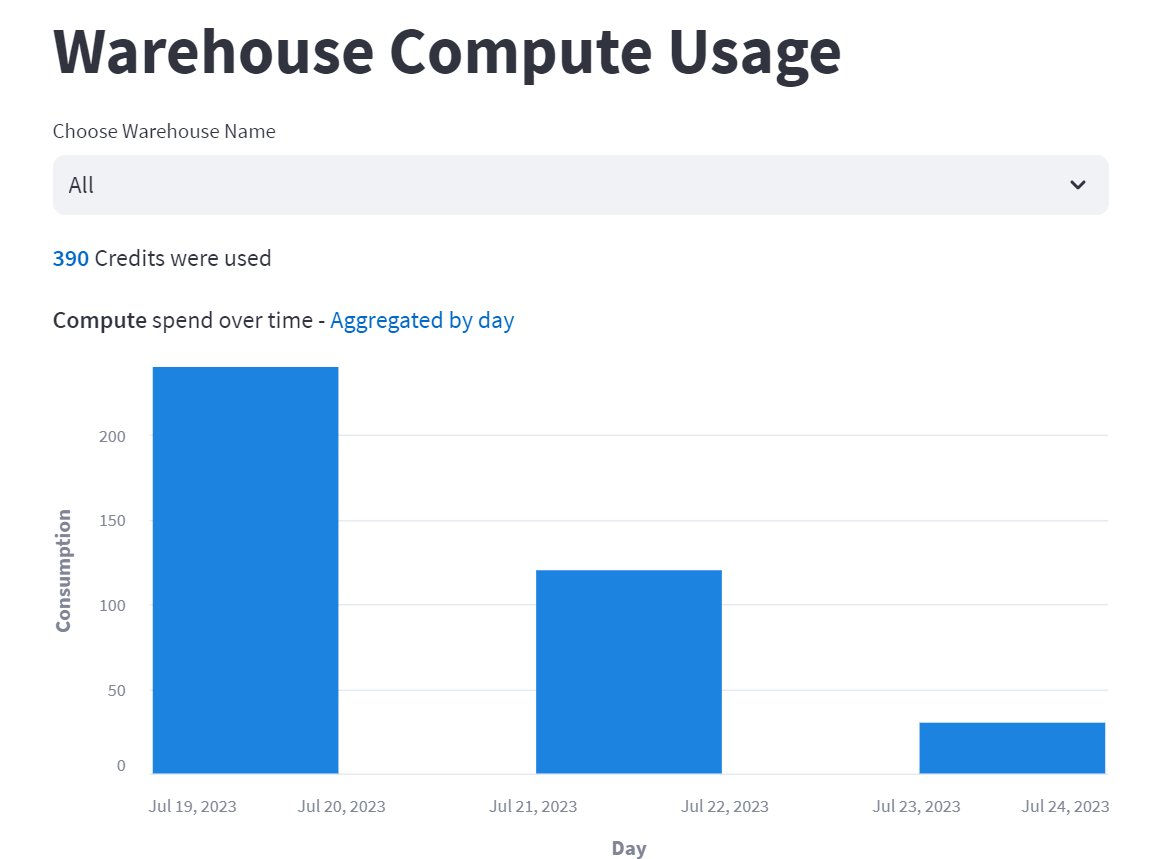
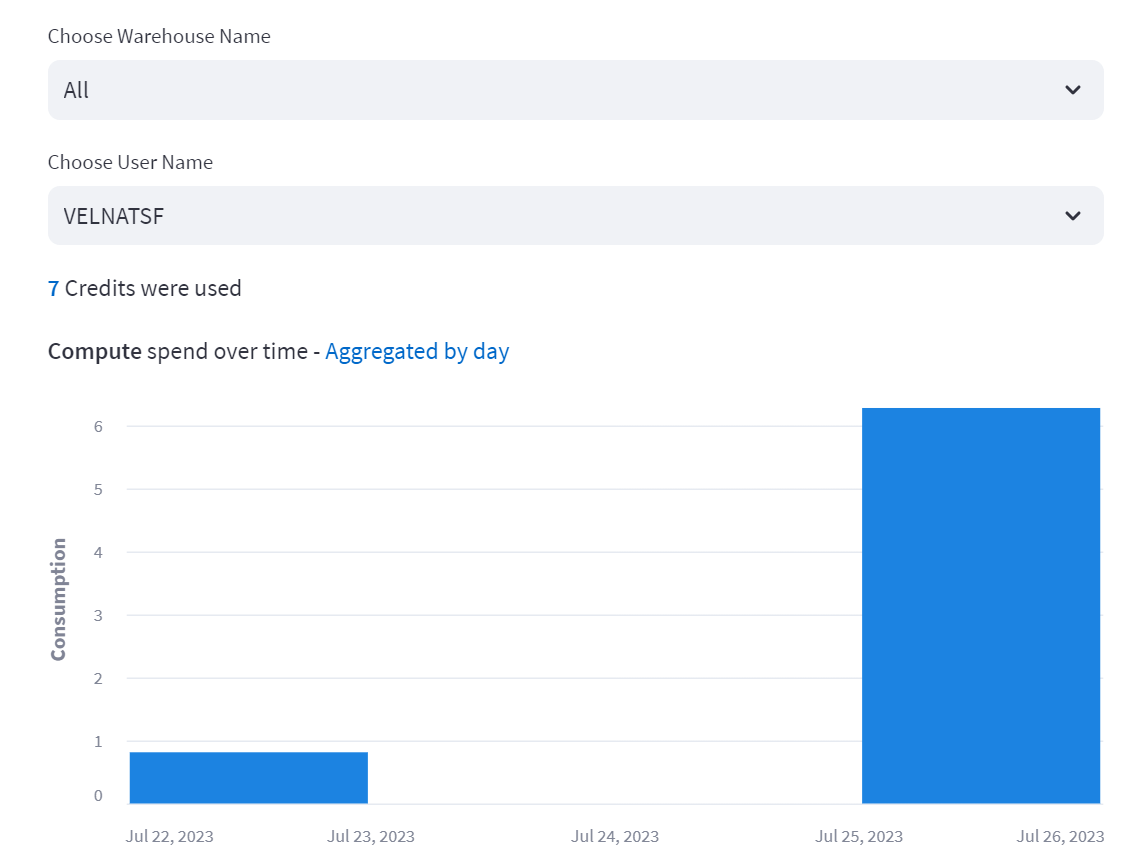
Snowflake user warehouse management

diff --git a/sfutils/WarehouseUsageMST.py b/sfutils/WarehouseUsageMST.py
@@ -18,11 +18,10 @@ class wh_usage:
         with st.sidebar:
             date_from, date_to = sproc.date_selector()
 
-        # Get warehouse data by user
-        df = snowflake_run.get_data(syssql.WH001_QUERY_COUNT.format(date_from=date_from, date_to=date_to))
-        df_q=df
+        # Get data
+        df = snowflake_run.get_data(syssql.CM001_WH_CREDIT_CONSUMPTION.format(date_from=date_from, date_to=date_to))
 
-        # Add filtering widget per Warehouse Name
+        # Add filtering widget per Service type
         all_values = df["WAREHOUSE_NAME"].unique().tolist()
         selected_value = st.selectbox(
             "Choose Warehouse Name",
@@ -37,22 +36,6 @@ class wh_usage:
 
         # Filter df accordingly
         df = df[df["WAREHOUSE_NAME"].isin(selected_value)]
-
-        # Add filtering widget per User Name
-        all_usr_values = df["USER_NAME"].unique().tolist()
-        selected_usr_value = st.selectbox(
-            "Choose User Name",
-            ["All"] + all_usr_values,
-            0,
-        )
-
-        if selected_usr_value == "All":
-            selected_usr_value = all_usr_values
-        else:
-            selected_usr_value = [selected_usr_value]
-
-        # Filter df accordingly
-        df = df[df["USER_NAME"].isin(selected_usr_value)]
 
         # Get consumption
         consumption = int(df["CREDITS_USED"].sum())
@@ -83,8 +66,10 @@ class wh_usage:
         #---------------------------------------------
         # Top queries
         #---------------------------------------------    
-        st.subheader("User Top Queries")        
-        df = df_q[df_q["USER_NAME"].isin(selected_usr_value)]
+        st.subheader("User Top Queries")
+        #df=get_data(syssql.WH001_QUERY_COUNT.format(warehouse_name=selected_value))
+        df = snowflake_run.get_data(syssql.WH001_QUERY_COUNT)
+        df = df[df["WAREHOUSE_NAME"].isin(selected_value)]
         if df.empty:
             st.caption("No data found.")
         else:
@@ -92,6 +77,10 @@ class wh_usage:
                 st.dataframe(df)
           
 # Run the app
+# if __name__ == "__main__":
+#     st.title("Warehouse Compute Usage")
+#     wh_cr_usage()
+
 if __name__ == "__main__":    
     form3=wh_usage()
     conn = form3.wh_cr_usage()

diff --git a/sfutils/syssql.py b/sfutils/syssql.py
@@ -28,16 +28,18 @@ WH001_QUERY_COUNT = """
 SELECT WAREHOUSE_NAME,
        USER_NAME,
        count(*) as query_cnt,
-       sum(TOTAL_ELAPSED_TIME)/1000 as exec_seconds,
+       sum(TOTAL_ELAPSED_TIME)/1000 as credits_used,
        --sum(TOTAL_ELAPSED_TIME)/(1000*60) as exec_minutes,
        --sum(TOTAL_ELAPSED_TIME)/(1000*60*60) as exec_hours,
+       date_trunc('hour', start_time) as start_time,
        QUERY_TEXT
 from SNOWFLAKE.ACCOUNT_USAGE.QUERY_HISTORY Q
 where 1=1
-  and Q.START_TIME::DATE >= CURRENT_DATE - 7
+  and start_time >= '{date_from}'::timestamp_ltz
+  and start_time < '{date_to}'::timestamp_ltz
   and TOTAL_ELAPSED_TIME > 0
   AND WAREHOUSE_NAME IS NOT NULL  
-group by 1,2,5
+group by 1,2,5,6
 having count(*) >= 1
 order by 1 desc
 limit 10
